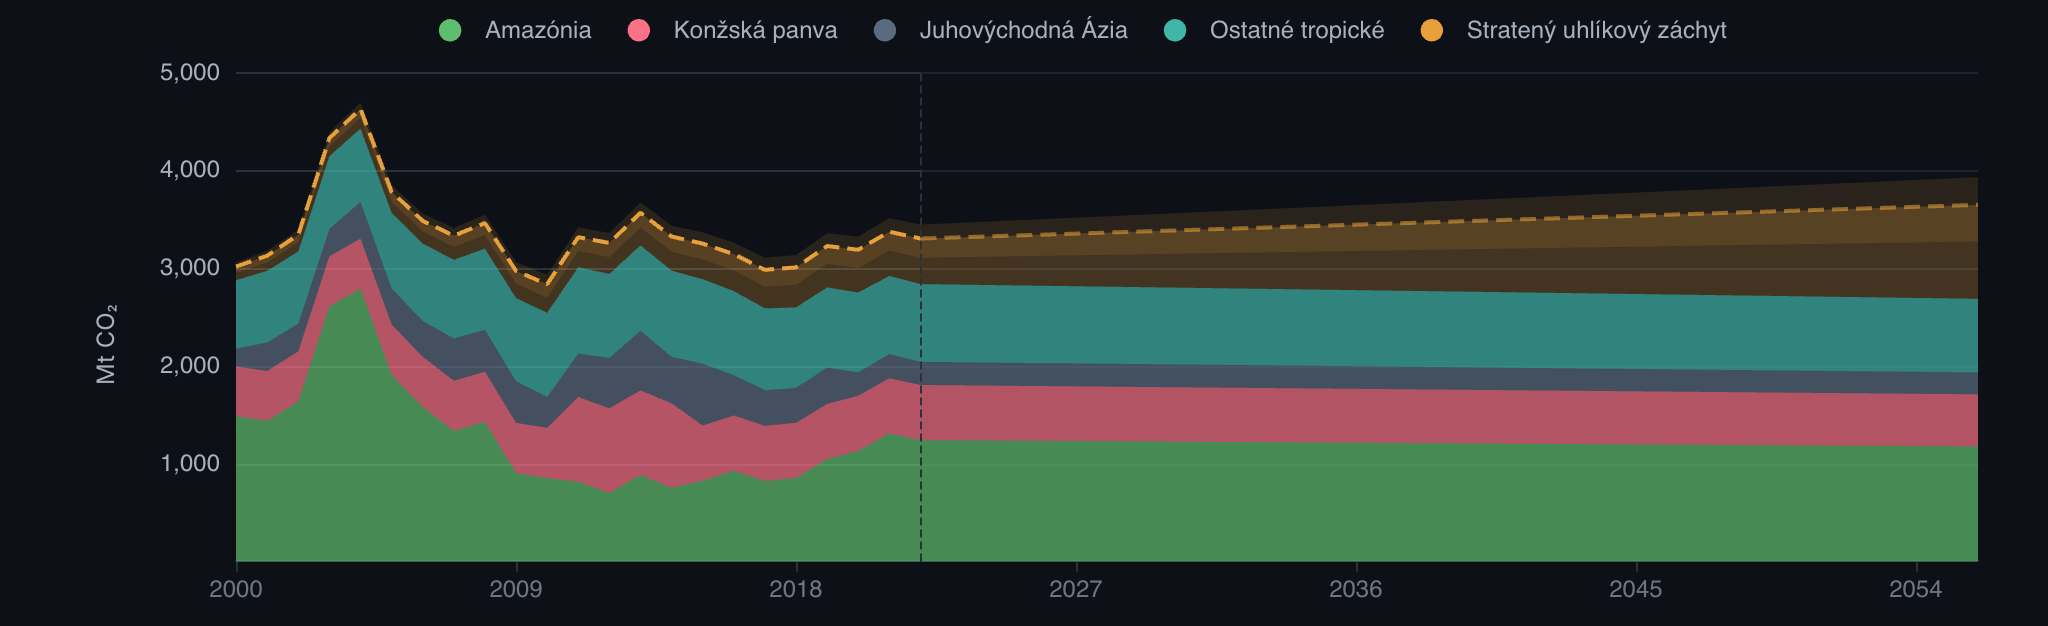
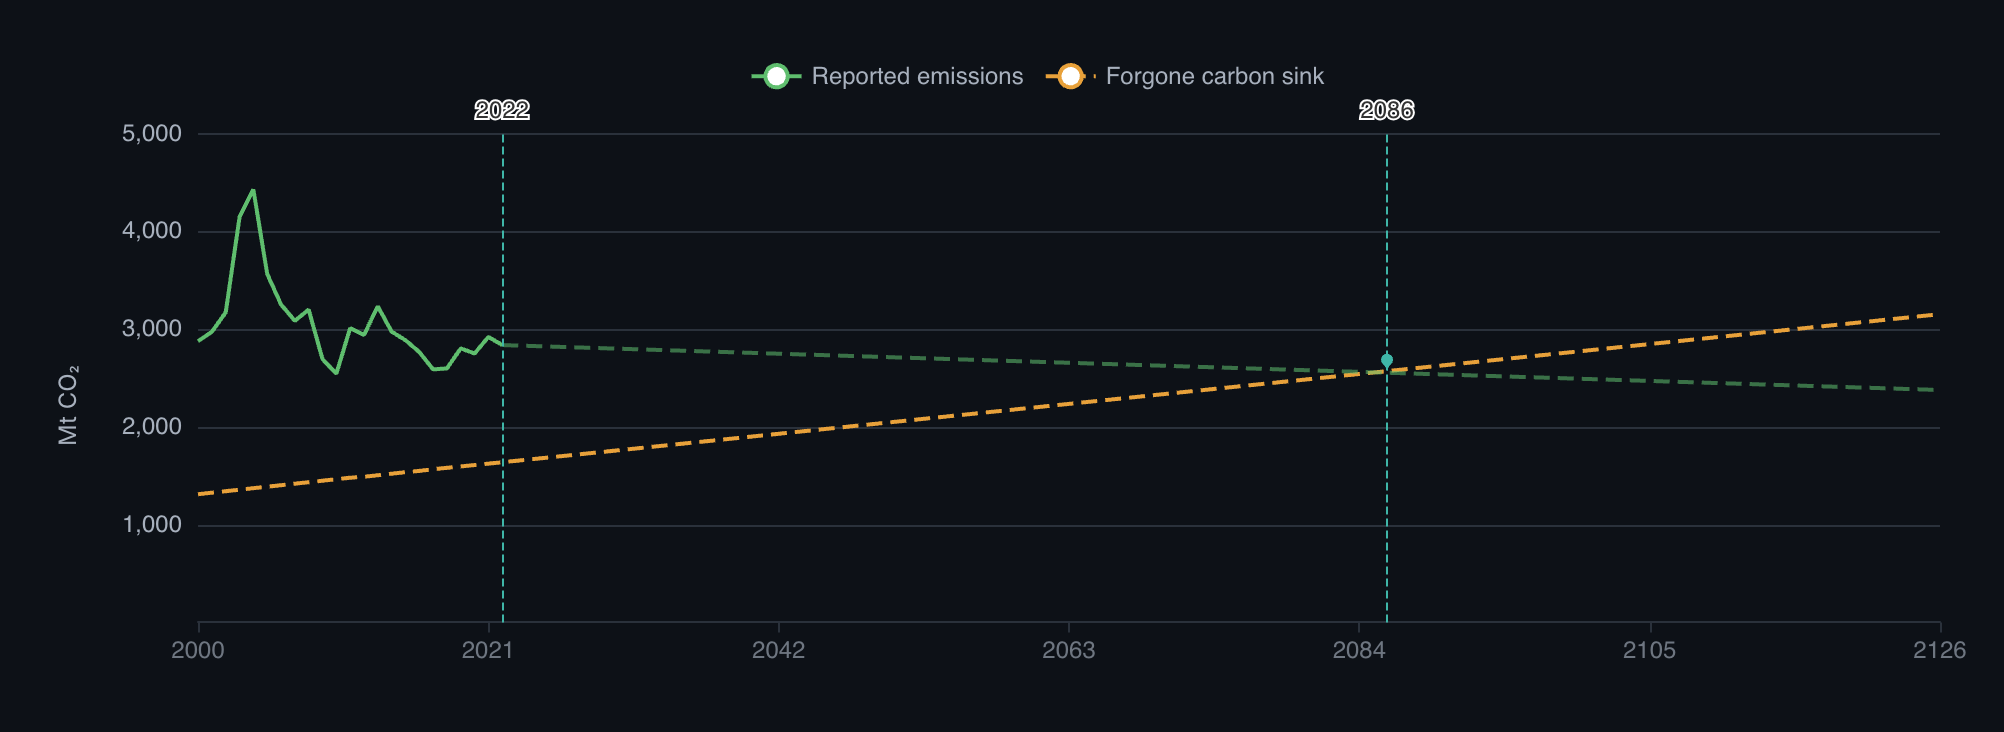
Swap OG share image to the crossing chart
The crossing chart (reported emissions vs the rising forgone sink meeting
around 2086) conveys the thesis better than the stacked-area shot. Update the
image (2004x732), its og/twitter dimensions, and the localized alt text.

diff --git a/app/app.vue b/app/app.vue
@@ -37,8 +37,8 @@ useSeoMeta({
   ogImage: () => ogImage.value,
   ogImageSecureUrl: () => ogImage.value,
   ogImageType: 'image/png',
-  ogImageWidth: 2048,
-  ogImageHeight: 626,
+  ogImageWidth: 2004,
+  ogImageHeight: 732,
   ogImageAlt: () => t('seo.imageAlt'),
   // Twitter / X large-image card.
   twitterCard: 'summary_large_image',